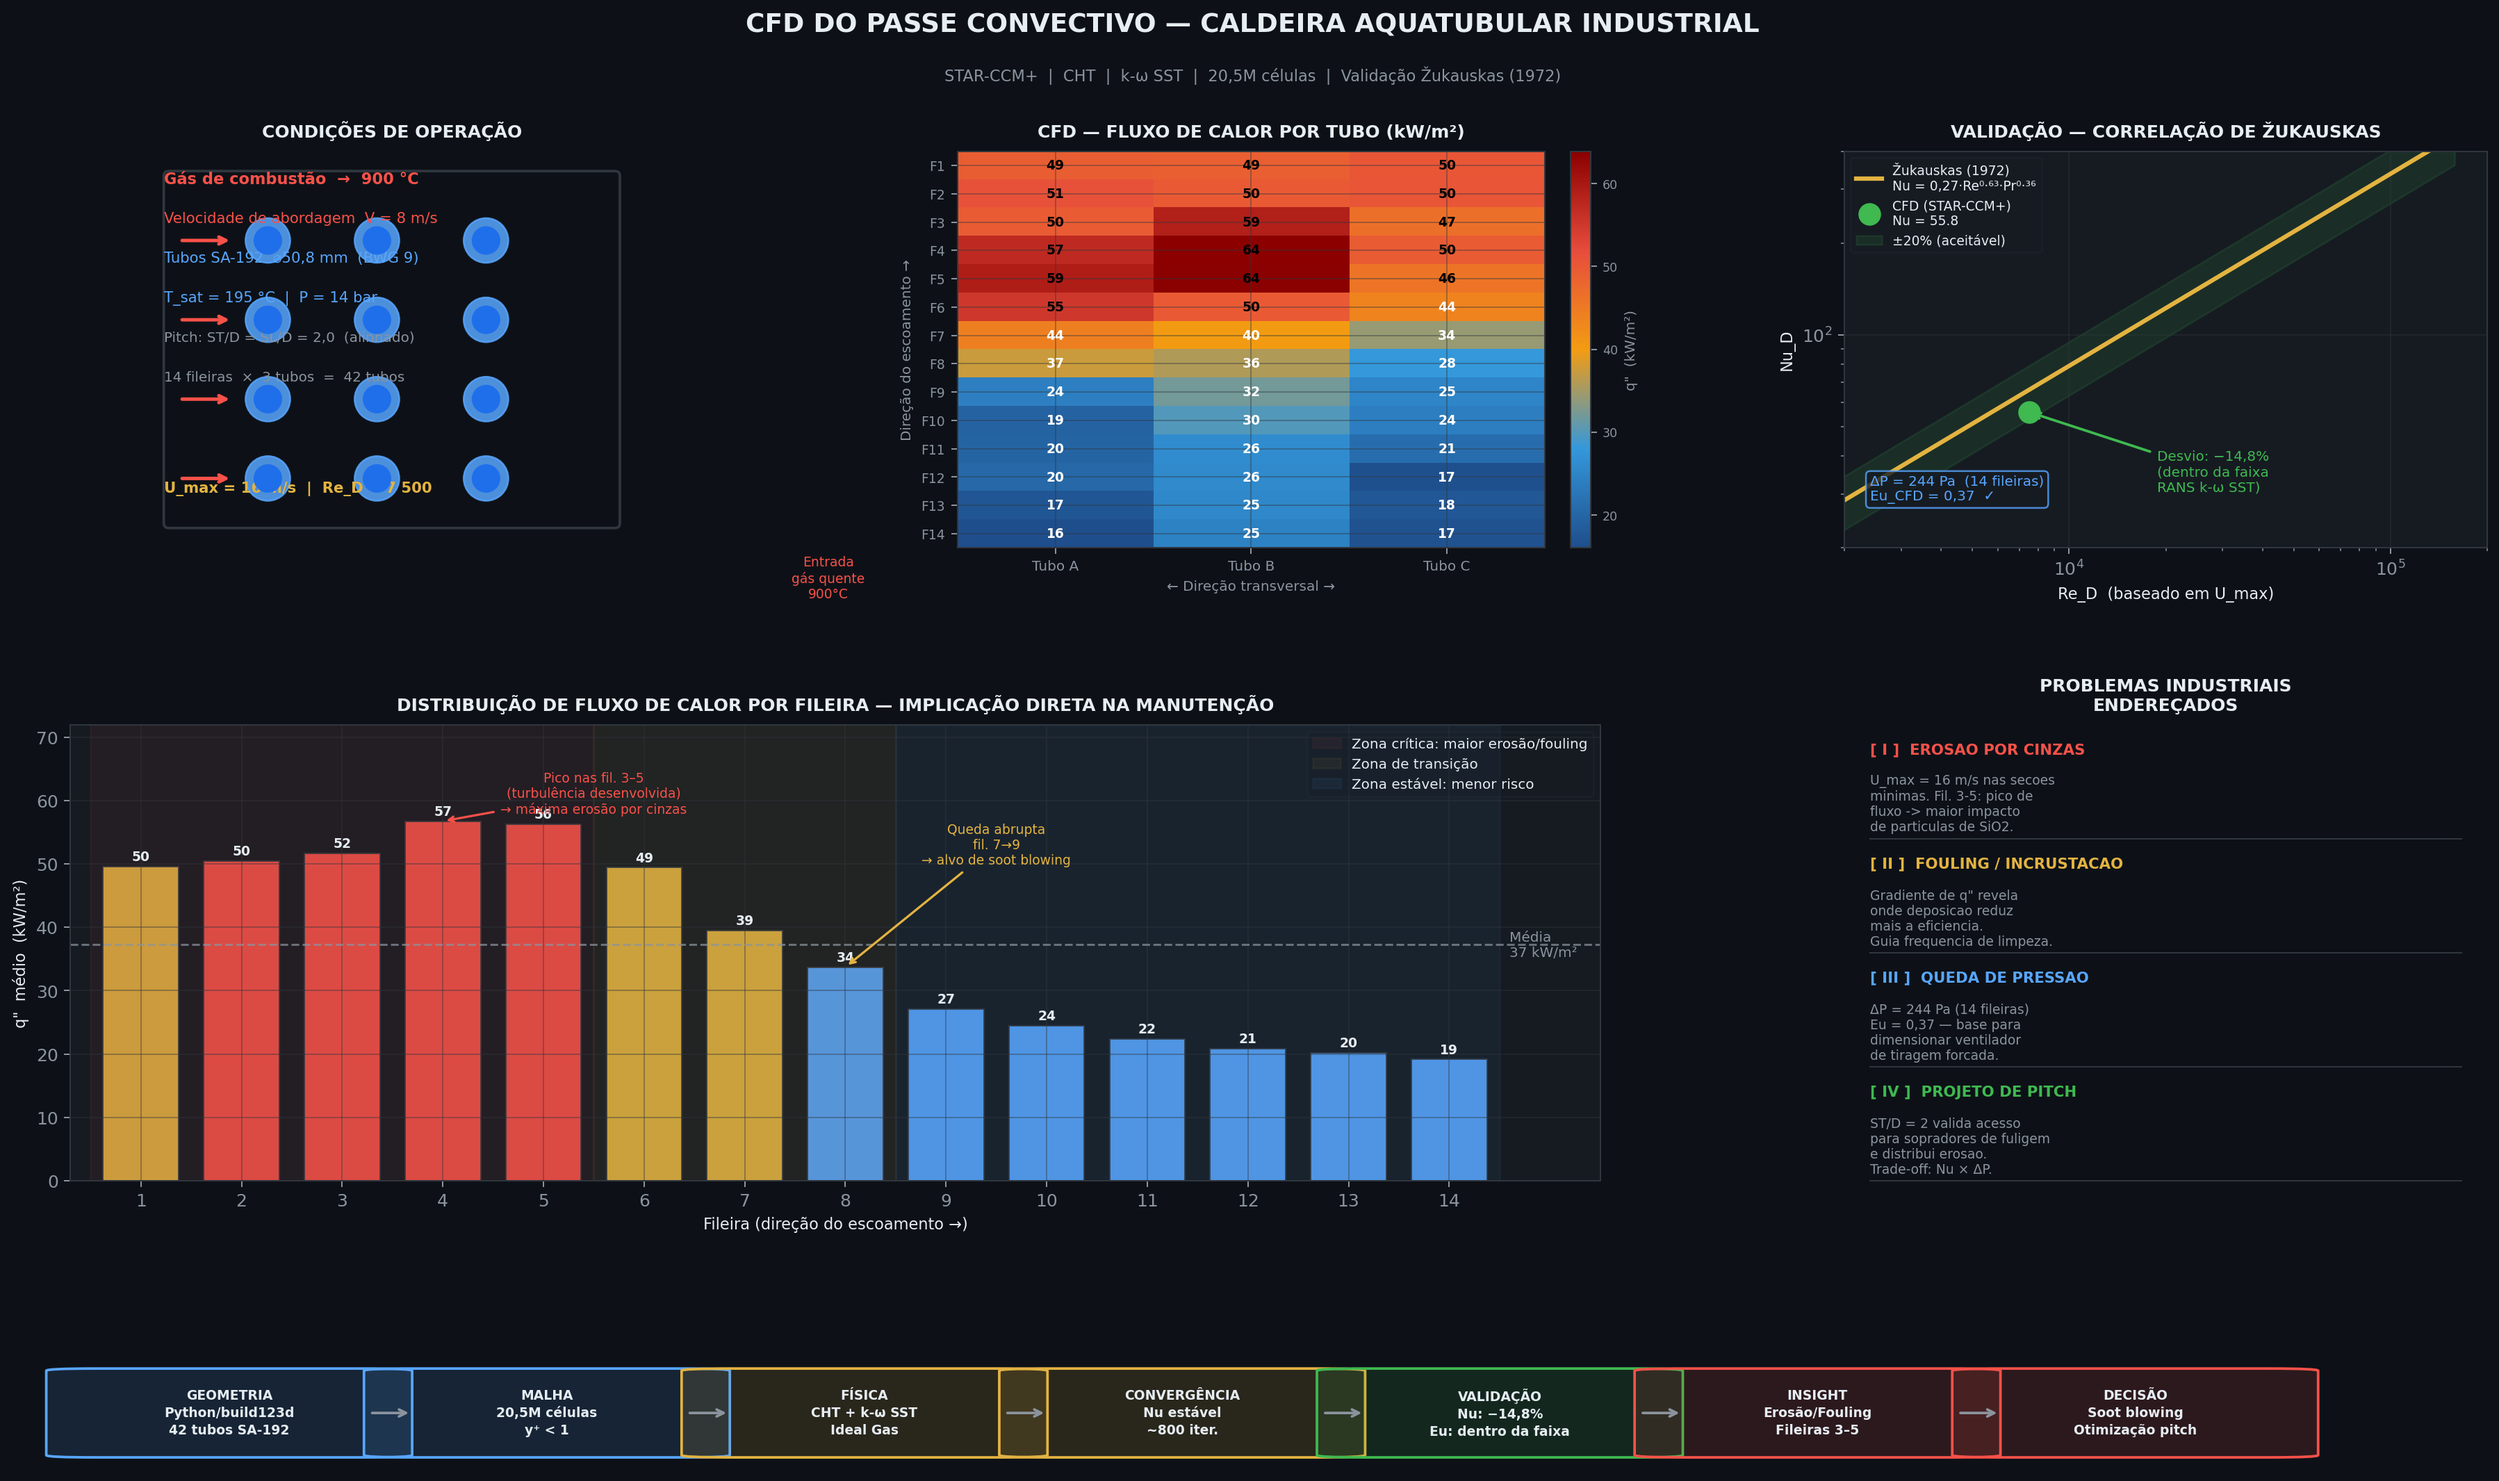
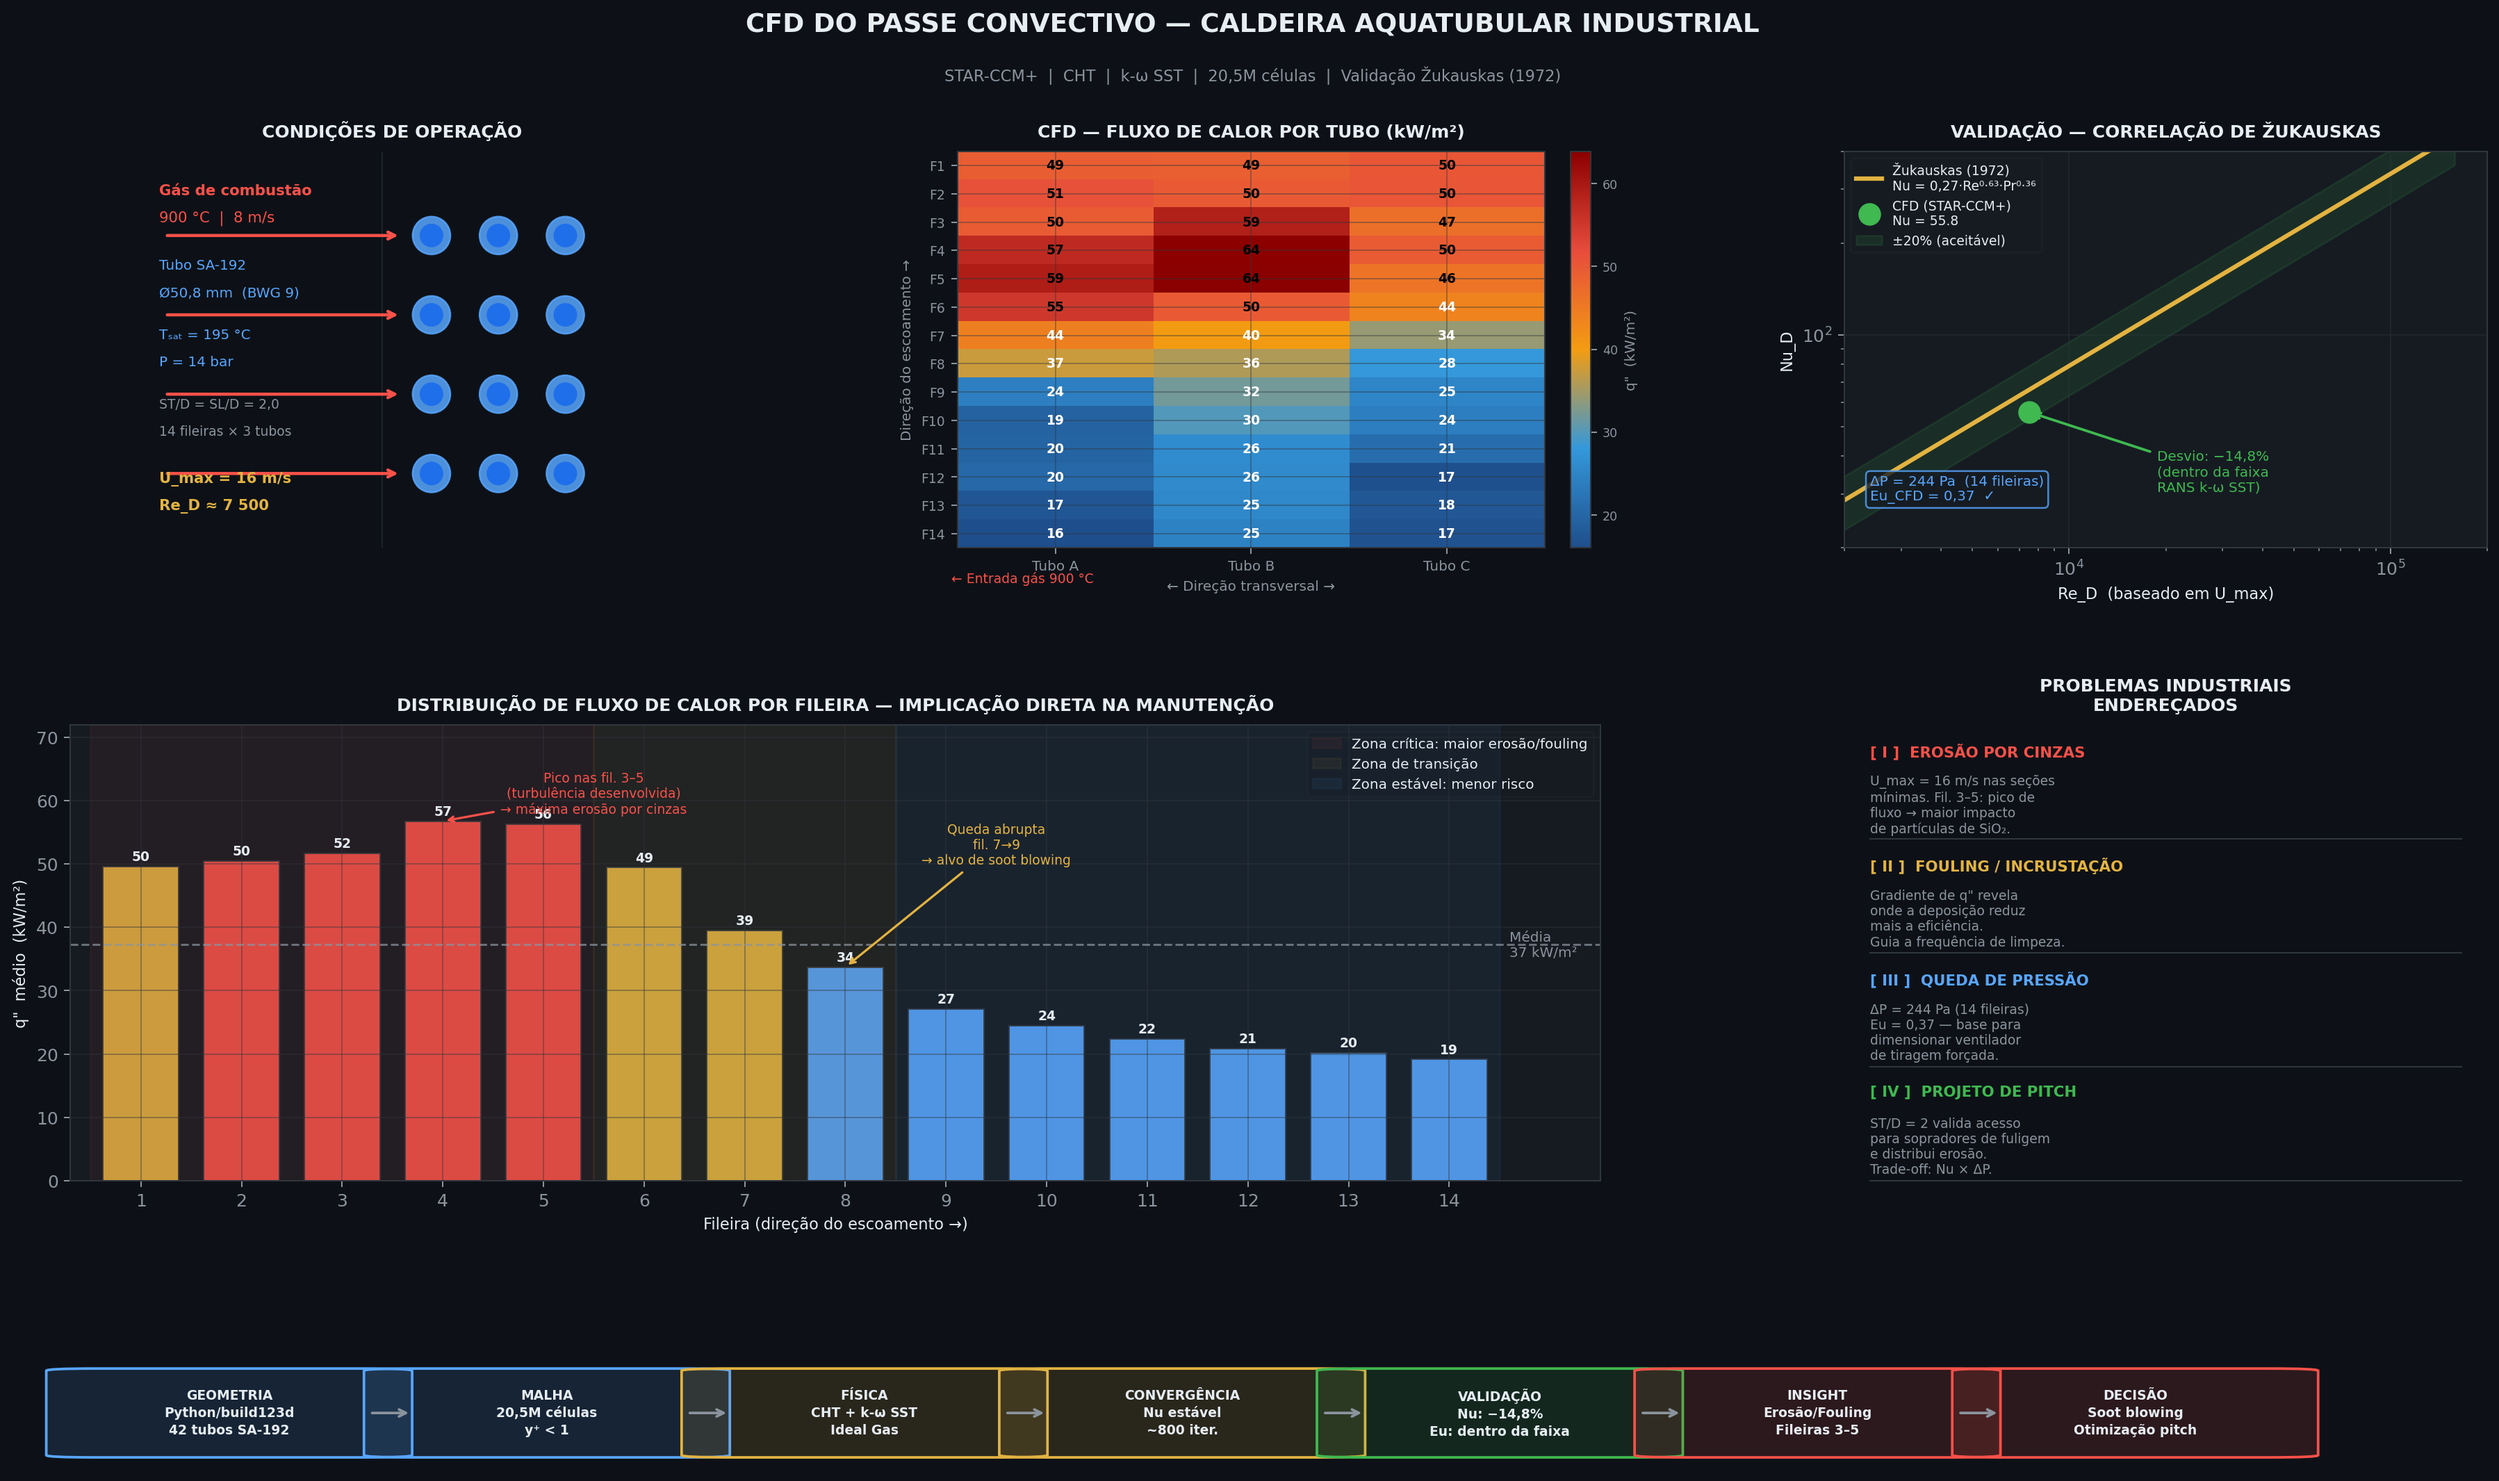
Fix infographic layout and spelling in Panel 1 and Panel 5
- Panel 1: separate text (left) from tube schematic (right) to
  eliminate text/circle overlap; use data coordinates for labels
- Panel 2: reposition gas inlet annotation inside the axes
- Panel 5: fix all Portuguese spelling (EROSÃO, INCRUSTAÇÃO,
  PRESSÃO, seções, mínimas, partículas, deposição, eficiência,
  frequência, forçada, erosão)

https://claude.ai/code/session_01UEYbUXbfbRZnyvUrgeujB3

Changed region(s): [[0.0623, 0.0929, 0.2492, 0.3717], [0.7475, 0.4955, 0.8409, 0.6814], [0.3115, 0.3717, 0.3426, 0.4026]]

diff --git a/boiler_convective_pass/results/infographic_linkedin.py b/boiler_convective_pass/results/infographic_linkedin.py
@@ -89,37 +89,37 @@ ax1.set_facecolor(PANEL)
 ax1.set_title('CONDIÇÕES DE OPERAÇÃO', color=TEXT, fontsize=10,
               fontweight='bold', pad=8, loc='center')
 
-# Caixa do domínio
-box = FancyBboxPatch((0.5, 0.5), 9, 7, boxstyle='round,pad=0.1',
-                      linewidth=1.5, edgecolor=BORDER, facecolor='#0d1117')
-ax1.add_patch(box)
+# Divisor vertical: texto à esquerda (x<5), tubos à direita (x>=5)
+ax1.axvline(4.8, color=BORDER, lw=0.8, alpha=0.5)
 
-# Tubos 3×4
+# Tubos 3×4 — lado DIREITO
 for row in range(4):
     for col in range(3):
-        cx = 2.5 + col * 2.2
-        cy = 1.4 + row * 1.6
-        ax1.add_patch(Circle((cx, cy), 0.45, color=BLUE, zorder=3, alpha=0.85))
-        ax1.add_patch(Circle((cx, cy), 0.27, color='#1f6feb', zorder=4))
+        cx = 5.8 + col * 1.35
+        cy = 1.5 + row * 1.6
+        ax1.add_patch(Circle((cx, cy), 0.38, color=BLUE, zorder=3, alpha=0.85))
+        ax1.add_patch(Circle((cx, cy), 0.22, color='#1f6feb', zorder=4))
 
-# Setas de escoamento
-for y in [1.4, 3.0, 4.6, 6.2]:
-    ax1.annotate('', xy=(1.8, y), xytext=(0.7, y),
-                 arrowprops=dict(arrowstyle='->', color=RED, lw=2.0))
+# Setas de escoamento apontando para os tubos
+for y in [1.5, 3.1, 4.7, 6.3]:
+    ax1.annotate('', xy=(5.2, y), xytext=(0.4, y),
+                 arrowprops=dict(arrowstyle='->', color=RED, lw=1.8))
 
-# Rótulos de condições
+# Rótulos — lado ESQUERDO (coordenadas de dados, sem sobreposição)
 params = [
-    (0.04, 0.93, f'Gás de combustão  →  900 °C', RED, 9, 'bold'),
-    (0.04, 0.83, f'Velocidade de abordagem  V = 8 m/s', RED, 8.5, 'normal'),
-    (0.04, 0.73, f'Tubos SA-192  ⌀50,8 mm  (BWG 9)', BLUE, 8.5, 'normal'),
-    (0.04, 0.63, f'T_sat = 195 °C  |  P = 14 bar', BLUE, 8.5, 'normal'),
-    (0.04, 0.53, f'Pitch: ST/D = SL/D = 2,0  (alinhado)', SUBTEXT, 8, 'normal'),
-    (0.04, 0.43, f'14 fileiras  ×  3 tubos  =  42 tubos', SUBTEXT, 8, 'normal'),
-    (0.04, 0.15, f'U_max = 16 m/s  |  Re_D ≈ 7 500', ORANGE, 8.5, 'bold'),
+    (0.3, 7.2, 'Gás de combustão', RED, 8.5, 'bold'),
+    (0.3, 6.65,'900 °C  |  8 m/s', RED, 8.5, 'normal'),
+    (0.3, 5.7, 'Tubo SA-192', BLUE, 8, 'normal'),
+    (0.3, 5.15, u'Ø50,8 mm  (BWG 9)', BLUE, 8, 'normal'),
+    (0.3, 4.3, 'Tₛₐₜ = 195 °C', BLUE, 8, 'normal'),
+    (0.3, 3.75,'P = 14 bar', BLUE, 8, 'normal'),
+    (0.3, 2.9, 'ST/D = SL/D = 2,0', SUBTEXT, 7.5, 'normal'),
+    (0.3, 2.35,'14 fileiras × 3 tubos', SUBTEXT, 7.5, 'normal'),
+    (0.3, 1.4, 'U_max = 16 m/s', ORANGE, 8.5, 'bold'),
+    (0.3, 0.85,'Re_D ≈ 7 500', ORANGE, 8.5, 'bold'),
 ]
 for x, y, txt, col, fs, fw in params:
-    ax1.text(x, y, txt, transform=ax1.transAxes,
-             color=col, fontsize=fs, fontweight=fw, va='center')
+    ax1.text(x, y, txt, color=col, fontsize=fs, fontweight=fw, va='center')
 
 # ─── PAINEL 2 — Mapa de Fluxo de Calor por Tubo ──────────────────────────────
 ax2 = fig.add_subplot(gs[0, 1])
@@ -152,11 +152,8 @@ cb.set_label('q"  (kW/m²)', color=SUBTEXT, fontsize=8)
 cb.ax.yaxis.set_tick_params(color=SUBTEXT)
 plt.setp(cb.ax.yaxis.get_ticklabels(), color=SUBTEXT, fontsize=7)
 
-# Seta indicando entrada de gás
-ax2.annotate('Entrada\ngás quente\n900°C',
-             xy=(-0.22, -0.02), xycoords='axes fraction',
-             fontsize=7.5, color=RED, ha='center', va='top',
-             arrowprops=None)
+ax2.text(-0.01, -0.06, '← Entrada gás 900 °C', transform=ax2.transAxes,
+         fontsize=7.5, color=RED, ha='left', va='top')
 
 # ─── PAINEL 3 — Validação Žukauskas ──────────────────────────────────────────
 ax3 = fig.add_subplot(gs[0, 2])
@@ -254,14 +251,14 @@ ax5.set_title('PROBLEMAS INDUSTRIAIS\nENDEREÇADOS', color=TEXT,
               fontsize=10, fontweight='bold', pad=8, loc='center')
 
 issues = [
-    (RED,    '[ I ]  EROSAO POR CINZAS',
-             'U_max = 16 m/s nas secoes\nminimas. Fil. 3-5: pico de\nfluxo -> maior impacto\nde particulas de SiO2.'),
-    (ORANGE, '[ II ]  FOULING / INCRUSTACAO',
-             'Gradiente de q" revela\nonde deposicao reduz\nmais a eficiencia.\nGuia frequencia de limpeza.'),
-    (BLUE,   '[ III ]  QUEDA DE PRESSAO',
-             'ΔP = 244 Pa (14 fileiras)\nEu = 0,37 — base para\ndimensionar ventilador\nde tiragem forcada.'),
+    (RED,    '[ I ]  EROSÃO POR CINZAS',
+             'U_max = 16 m/s nas seções\nmínimas. Fil. 3–5: pico de\nfluxo → maior impacto\nde partículas de SiO₂.'),
+    (ORANGE, '[ II ]  FOULING / INCRUSTAÇÃO',
+             'Gradiente de q" revela\nonde a deposição reduz\nmais a eficiência.\nGuia a frequência de limpeza.'),
+    (BLUE,   '[ III ]  QUEDA DE PRESSÃO',
+             'ΔP = 244 Pa (14 fileiras)\nEu = 0,37 — base para\ndimensionar ventilador\nde tiragem forçada.'),
     (GREEN,  '[ IV ]  PROJETO DE PITCH',
-             'ST/D = 2 valida acesso\npara sopradores de fuligem\ne distribui erosao.\nTrade-off: Nu × ΔP.'),
+             'ST/D = 2 valida acesso\npara sopradores de fuligem\ne distribui erosão.\nTrade-off: Nu × ΔP.'),
 ]
 
 y = 0.96
